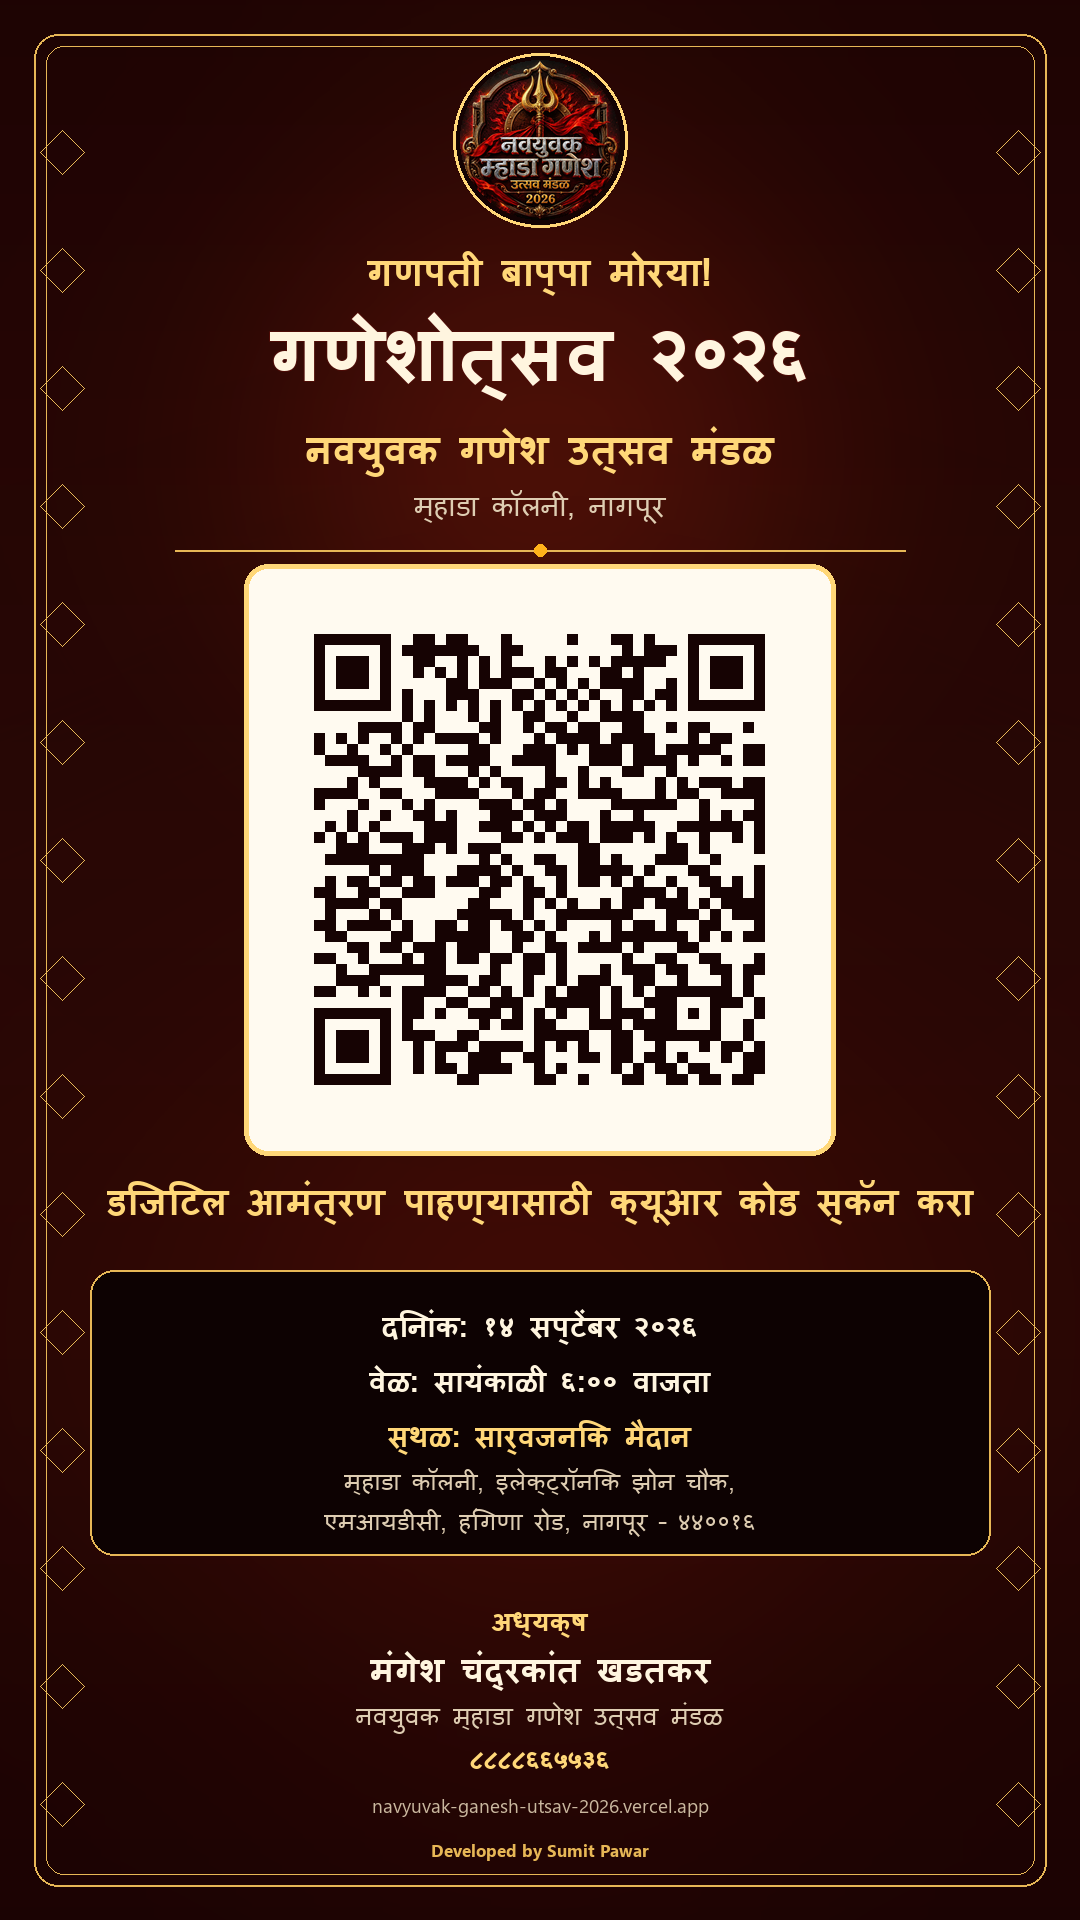
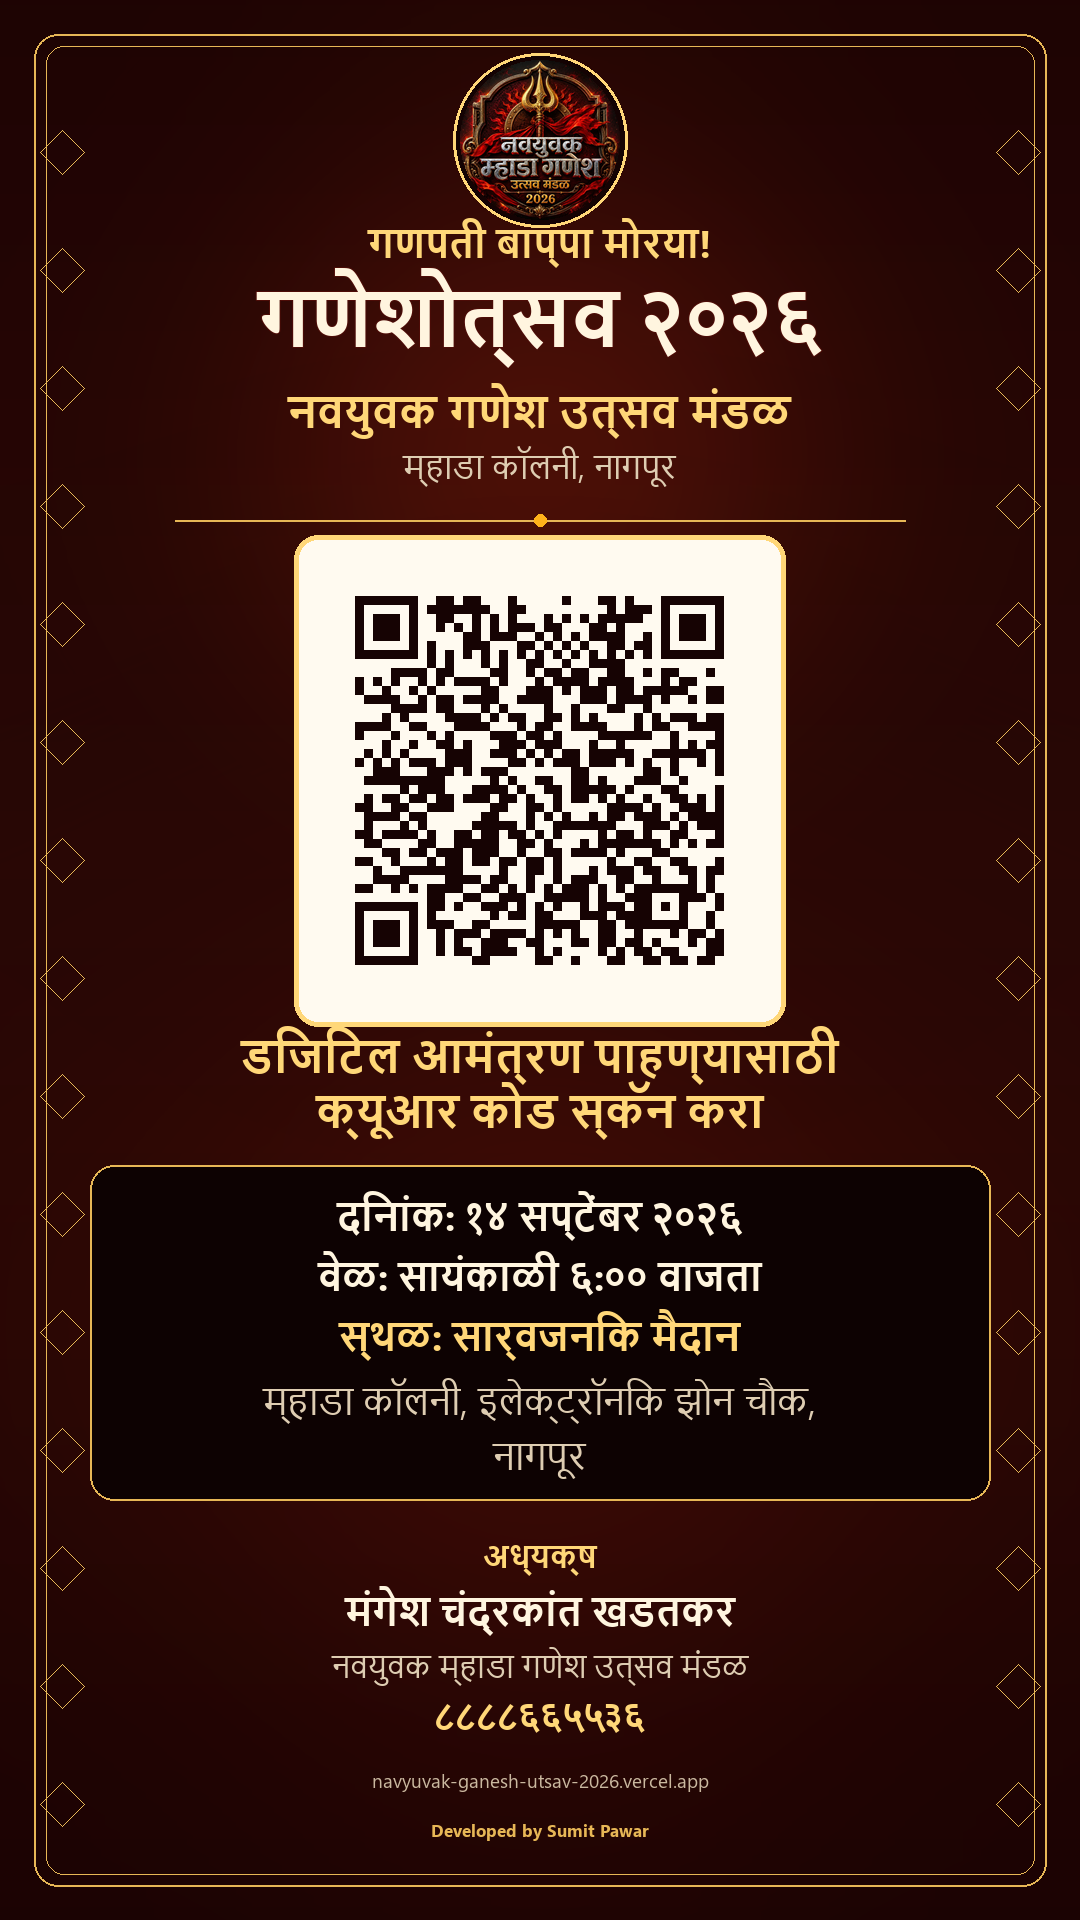
Use approved Marathi poster copy and mobile typography

Changed region(s): [[0.0611, 0.0938, 0.9167, 0.9688]]

diff --git a/scripts/generate_qr_advertisement.py b/scripts/generate_qr_advertisement.py
@@ -1,6 +1,7 @@
 from __future__ import annotations
 
 from pathlib import Path
+import re
 
 import qrcode
 from PIL import Image, ImageDraw, ImageFilter, ImageFont, ImageOps
@@ -10,29 +11,48 @@ from qrcode.constants import ERROR_CORRECT_H
 ROOT = Path(__file__).resolve().parents[1]
 PUBLIC = ROOT / "public"
 LOGO_PATH = PUBLIC / "assets" / "navyuvak-mandal-2026.jpeg"
+EVENT_SOURCE_PATH = ROOT / "src" / "event.ts"
 INVITATION_URL = "https://navyuvak-ganesh-utsav-2026.vercel.app"
+POSTER_LOCALITY = "म्हाडा कॉलनी, नागपूर"
+POSTER_ADDRESS_LINE_1 = "म्हाडा कॉलनी, इलेक्ट्रॉनिक झोन चौक,"
+POSTER_ADDRESS_LINE_2 = "नागपूर"
 
-GREETING = "गणपती बाप्पा मोरया!"
-EVENT_TITLE = "गणेशोत्सव २०२६"
-MANDAL_NAME = "नवयुवक गणेश उत्सव मंडळ"
-LOCALITY = "म्हाडा कॉलनी, नागपूर"
-EVENT_DATE = "१४ सप्टेंबर २०२६"
-EVENT_TIME = "सायंकाळी ६:०० वाजता"
-VENUE_NAME = "सार्वजनिक मैदान"
-ADDRESS_LINE_1 = "म्हाडा कॉलनी, इलेक्ट्रॉनिक झोन चौक,"
-ADDRESS_LINE_2 = "एमआयडीसी, हिंगणा रोड, नागपूर – ४४००१६"
-PRESIDENT = "मंगेश चंद्रकांत खडतकर"
-PRESIDENT_MANDAL = "नवयुवक म्हाडा गणेश उत्सव मंडळ"
-PHONE = "८८८८६६५५३६"
-
-MARATHI_REGULAR = Path(r"C:\Windows\Fonts\mangal.ttf")
-MARATHI_BOLD = Path(r"C:\Windows\Fonts\mangalb.ttf")
+MARATHI_FONT = Path(r"C:\Windows\Fonts\Nirmala.ttc")
+MARATHI_REGULAR = (MARATHI_FONT, 0)
+MARATHI_BOLD = (MARATHI_FONT, 1)
 LATIN_REGULAR = Path(r"C:\Windows\Fonts\segoeui.ttf")
 LATIN_BOLD = Path(r"C:\Windows\Fonts\segoeuib.ttf")
 
 RAW_QR_PATH = PUBLIC / "navyuvak-ganesh-utsav-qr.png"
 SOCIAL_POSTER_PATH = PUBLIC / "navyuvak-ganesh-utsav-qr-advertisement.png"
 PRINT_POSTER_PATH = PUBLIC / "navyuvak-ganesh-utsav-qr-print-a4.png"
+
+
+def load_event_details() -> dict[str, str]:
+    """Read the same Marathi event copy that powers the invitation website."""
+    source = EVENT_SOURCE_PATH.read_text(encoding="utf-8")
+    keys = (
+        "mandalName",
+        "locality",
+        "title",
+        "dateDisplay",
+        "timeDisplay",
+        "venueName",
+        "address",
+        "president",
+        "presidentMandalName",
+        "phoneDisplay",
+    )
+    details: dict[str, str] = {}
+    for key in keys:
+        match = re.search(rf"\b{key}:\s*'([^']+)'", source)
+        if match is None:
+            raise ValueError(f"Could not find {key!r} in {EVENT_SOURCE_PATH}")
+        details[key] = match.group(1)
+    return details
+
+
+EVENT = load_event_details()
 
 
 def make_qr() -> Image.Image:
@@ -47,8 +67,11 @@ def make_qr() -> Image.Image:
     return qr.make_image(fill_color="#160303", back_color="#fffaf0").convert("RGB")
 
 
-def font(path: Path, size: float) -> ImageFont.FreeTypeFont:
-    return ImageFont.truetype(str(path), max(10, round(size)))
+def font(source: Path | tuple[Path, int], size: float) -> ImageFont.FreeTypeFont:
+    if isinstance(source, tuple):
+        path, index = source
+        return ImageFont.truetype(str(path), max(10, round(size)), index=index)
+    return ImageFont.truetype(str(source), max(10, round(size)))
 
 
 def add_glow(canvas: Image.Image, center: tuple[int, int], radius: int, color: tuple[int, int, int]) -> None:
@@ -115,7 +138,7 @@ def draw_centered(
     draw: ImageDraw.ImageDraw,
     text: str,
     y: int,
-    font_path: Path,
+    font_path: Path | tuple[Path, int],
     size: float,
     fill: tuple[int, int, int, int],
     max_width: int,
@@ -175,11 +198,11 @@ def render_poster(width: int, height: int, output_path: Path, dpi: int) -> None:
     muted = (222, 205, 178, 255)
     max_text_width = sx(900)
 
-    draw_centered(draw, GREETING, sy(270), MARATHI_BOLD, sx(38), gold, max_text_width)
+    draw_centered(draw, "गणपती बाप्पा मोरया!", sy(242), MARATHI_BOLD, sx(38), gold, max_text_width)
     draw_centered(
         draw,
-        EVENT_TITLE,
-        sy(350),
+        EVENT["title"],
+        sy(315),
         MARATHI_BOLD,
         sx(76),
         ivory,
@@ -187,10 +210,10 @@ def render_poster(width: int, height: int, output_path: Path, dpi: int) -> None:
         stroke_width=max(1, sx(1.4)),
         stroke_fill=(77, 12, 7, 255),
     )
-    draw_centered(draw, MANDAL_NAME, sy(448), MARATHI_BOLD, sx(40), gold, max_text_width)
-    draw_centered(draw, LOCALITY, sy(505), MARATHI_REGULAR, sx(28), muted, max_text_width)
+    draw_centered(draw, EVENT["mandalName"], sy(410), MARATHI_BOLD, sx(42), gold, max_text_width)
+    draw_centered(draw, POSTER_LOCALITY, sy(466), MARATHI_REGULAR, sx(32), muted, max_text_width)
 
-    line_y = sy(550)
+    line_y = sy(520)
     line_half_width = sx(365)
     draw.line(
         (width // 2 - line_half_width, line_y, width // 2 + line_half_width, line_y),
@@ -199,10 +222,10 @@ def render_poster(width: int, height: int, output_path: Path, dpi: int) -> None:
     )
     draw.ellipse((width // 2 - sx(6), line_y - sx(6), width // 2 + sx(6), line_y + sx(6)), fill=(255, 178, 26, 220))
 
-    qr_size = sx(539)
+    qr_size = sx(441)
     qr_x = (width - qr_size) // 2
-    qr_y = sy(590)
-    padding = sx(26)
+    qr_y = sy(560)
+    padding = sx(25)
     draw.rounded_rectangle(
         (qr_x - padding, qr_y - padding, qr_x + qr_size + padding, qr_y + qr_size + padding),
         radius=sx(24),
@@ -215,18 +238,27 @@ def render_poster(width: int, height: int, output_path: Path, dpi: int) -> None:
 
     draw_centered(
         draw,
-        "डिजिटल आमंत्रण पाहण्यासाठी क्यूआर कोड स्कॅन करा",
-        sy(1200),
+        "डिजिटल आमंत्रण पाहण्यासाठी",
+        sy(1055),
         MARATHI_BOLD,
-        sx(37),
+        sx(44),
+        gold,
+        max_text_width,
+    )
+    draw_centered(
+        draw,
+        "क्यूआर कोड स्कॅन करा",
+        sy(1110),
+        MARATHI_BOLD,
+        sx(44),
         gold,
         max_text_width,
     )
 
     card_left = width // 2 - sx(450)
     card_right = width // 2 + sx(450)
-    card_top = sy(1270)
-    card_bottom = sy(1555)
+    card_top = sy(1165)
+    card_bottom = sy(1500)
     draw.rounded_rectangle(
         (card_left, card_top, card_right, card_bottom),
         radius=sx(24),
@@ -237,59 +269,52 @@ def render_poster(width: int, height: int, output_path: Path, dpi: int) -> None:
 
     draw_centered(
         draw,
-        f"दिनांक: {EVENT_DATE}",
-        sy(1325),
+        f"दिनांक: {EVENT['dateDisplay']}",
+        sy(1215),
         MARATHI_BOLD,
-        sx(30),
+        sx(38),
         ivory,
         sx(820),
     )
     draw_centered(
         draw,
-        f"वेळ: {EVENT_TIME}",
-        sy(1380),
+        f"वेळ: {EVENT['timeDisplay']}",
+        sy(1275),
         MARATHI_BOLD,
-        sx(30),
+        sx(38),
         ivory,
         sx(820),
     )
     draw_centered(
         draw,
-        f"स्थळ: {VENUE_NAME}",
-        sy(1435),
+        f"स्थळ: {EVENT['venueName']}",
+        sy(1335),
         MARATHI_BOLD,
-        sx(29),
+        sx(38),
         gold,
         sx(820),
     )
-    draw_centered(
-        draw,
-        ADDRESS_LINE_1,
-        sy(1480),
-        MARATHI_REGULAR,
-        sx(24),
-        muted,
-        sx(820),
-    )
-    draw_centered(
-        draw,
-        ADDRESS_LINE_2,
-        sy(1520),
-        MARATHI_REGULAR,
-        sx(24),
-        muted,
-        sx(820),
-    )
 
-    draw_centered(draw, "अध्यक्ष", sy(1620), MARATHI_BOLD, sx(27), gold, max_text_width)
-    draw_centered(draw, PRESIDENT, sy(1668), MARATHI_BOLD, sx(34), ivory, max_text_width)
-    draw_centered(draw, PRESIDENT_MANDAL, sy(1714), MARATHI_REGULAR, sx(25), muted, max_text_width)
-    draw_centered(draw, PHONE, sy(1758), MARATHI_BOLD, sx(27), gold, max_text_width)
+    draw_centered(
+        draw,
+        POSTER_ADDRESS_LINE_1,
+        sy(1400),
+        MARATHI_REGULAR,
+        sx(36),
+        muted,
+        sx(820),
+    )
+    draw_centered(draw, POSTER_ADDRESS_LINE_2, sy(1455), MARATHI_REGULAR, sx(36), muted, sx(820))
+
+    draw_centered(draw, "अध्यक्ष", sy(1555), MARATHI_BOLD, sx(30), gold, max_text_width)
+    draw_centered(draw, EVENT["president"], sy(1610), MARATHI_BOLD, sx(38), ivory, max_text_width)
+    draw_centered(draw, EVENT["presidentMandalName"], sy(1665), MARATHI_REGULAR, sx(30), muted, max_text_width)
+    draw_centered(draw, EVENT["phoneDisplay"], sy(1715), MARATHI_BOLD, sx(34), gold, max_text_width)
 
     draw_centered(
         draw,
         "navyuvak-ganesh-utsav-2026.vercel.app",
-        sy(1805),
+        sy(1780),
         LATIN_REGULAR,
         sx(19),
         (202, 184, 159, 255),
@@ -298,7 +323,7 @@ def render_poster(width: int, height: int, output_path: Path, dpi: int) -> None:
     draw_centered(
         draw,
         "Developed by Sumit Pawar",
-        sy(1850),
+        sy(1830),
         LATIN_BOLD,
         sx(17),
         (231, 183, 86, 210),
